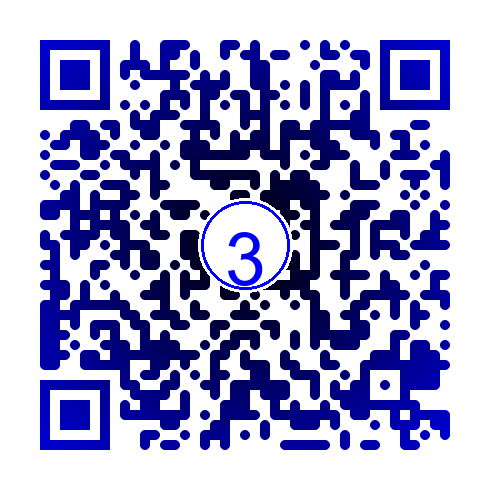
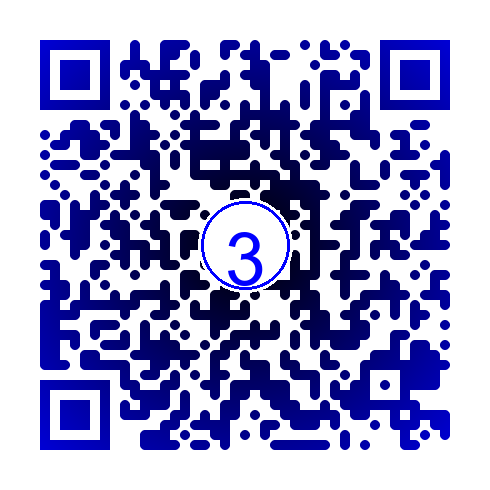
Mise à jour du QR code

diff --git a/generate_qrcode.py b/generate_qrcode.py
@@ -5,7 +5,7 @@ from qrcode.image.styles.colormasks import RadialGradiantColorMask
 from PIL import Image, ImageDraw, ImageFont
 
 # La phrase à convertir
-input_phrase = "http://172.31.100.218/attendance/attendance.php?room_id=3"
+input_phrase = "http://172.31.100.229/attendance/attendance.php?room_id=3"
 room_number = "3"  # Numéro de la salle
 
 # Générer le QR Code
